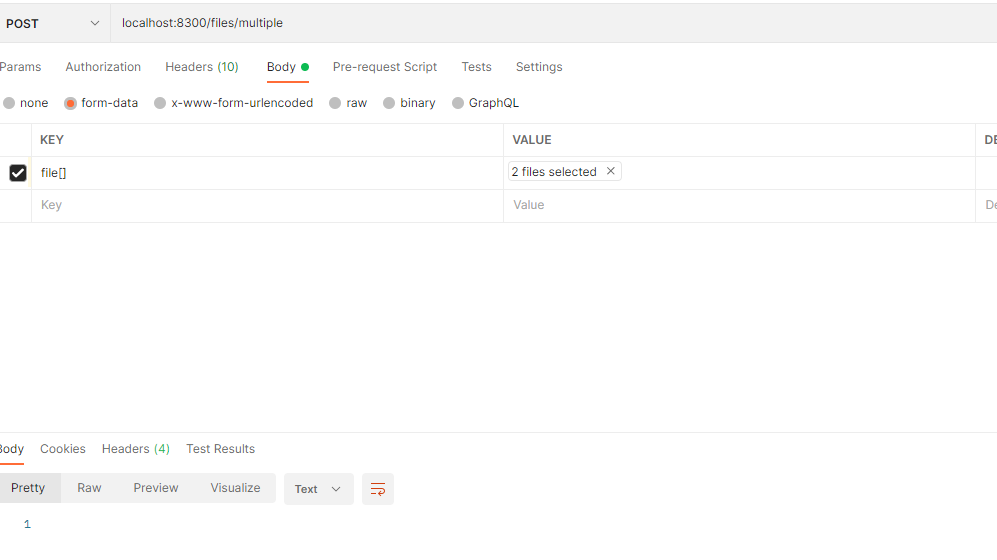
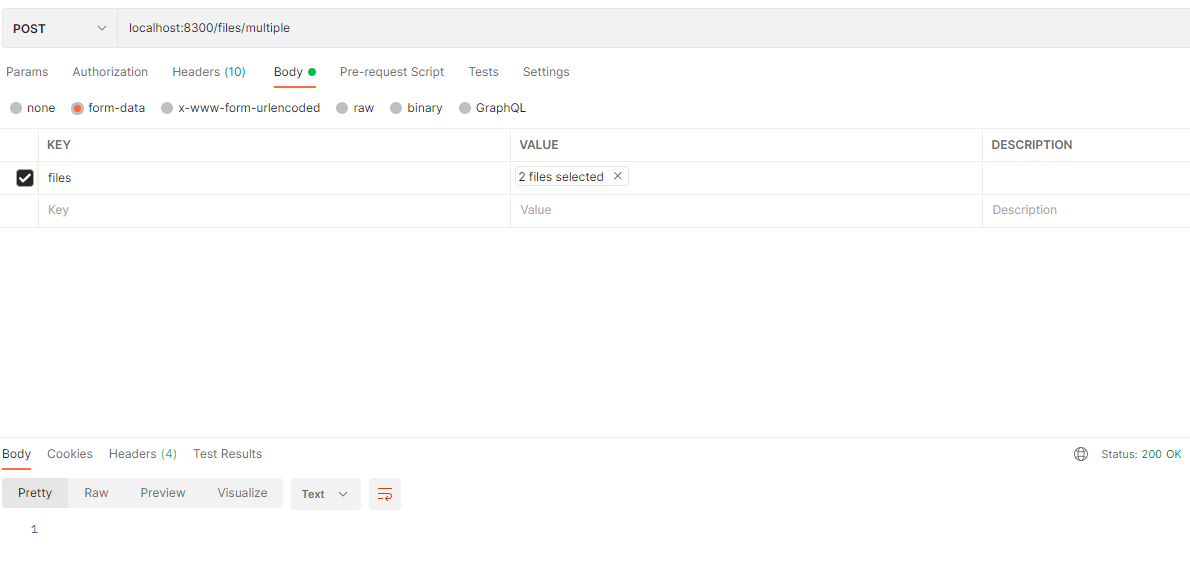
first

diff --git a/src/main/java/com/project/minio/Resource/MinioResource.java b/src/main/java/com/project/minio/Resource/MinioResource.java
@@ -131,7 +131,7 @@ public class MinioResource {
     }
     
     @PostMapping("/multiple")
-    public void addMultipleAttachement(@RequestParam("file[]") MultipartFile files[]) {
+    public void addMultipleAttachement(@RequestParam("files") MultipartFile files[]) {
     	
     	for (MultipartFile file : files) {
 			log.info("getOriginalFilename multiple: "+file.getOriginalFilename());
